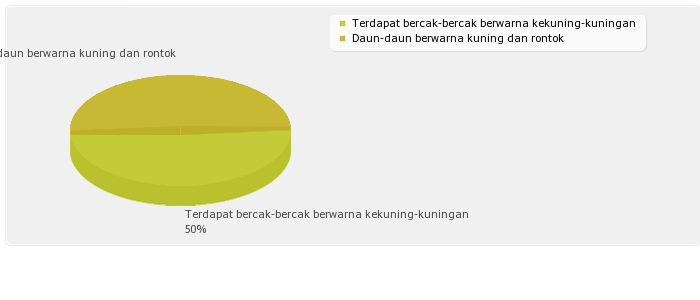
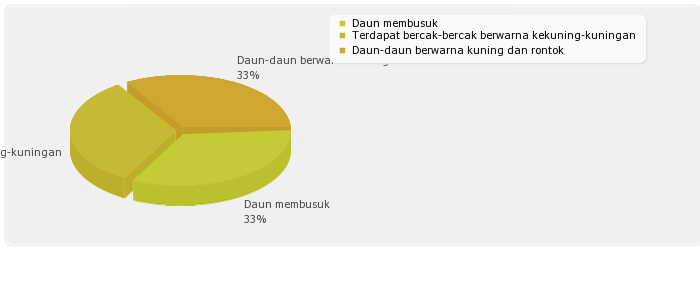
revisi

diff --git a/dompdf/lib/fonts/log.htm b/dompdf/lib/fonts/log.htm
@@ -1,1 +1,1 @@
-<span style='color: #000' title='Frames'>   254</span><span style='color: #009' title='Memory'>  13312.00 KB</span><span style='color: #900' title='Time'>   1123.73 ms</span><span  title='Quirksmode'>  <span style='color: #d00'> ON</span></span><br />
+<span style='color: #000' title='Frames'>   256</span><span style='color: #009' title='Memory'>  13312.00 KB</span><span style='color: #900' title='Time'>   1145.81 ms</span><span  title='Quirksmode'>  <span style='color: #d00'> ON</span></span><br />

diff --git a/administrator/LaporanPakar.php b/administrator/LaporanPakar.php
@@ -145,6 +145,8 @@ inner join solusi on relasigejala.id_solusi=solusi.id_solusi
 where analisahasil.id_log ='".$_GET['id_log']."' and analisahasil.id_pengguna='".$_GET['id_pengguna']."'
 order by analisahasil.id_analisa Desc limit 1";
 
+$_SESSION["get_id_log"] = $_GET['id_log'];
+
 $qry = mysql_query($sql, $koneksi) 
      or die ("Query Hasil salam".mysql_error());
 $data= mysql_fetch_array($qry);
@@ -165,40 +167,44 @@ $sql_gejalarelasi = "select distinct gejala.* FROM gejala, relasi WHERE gejala.i
     }
 
 //gejala yang sesuai dan ada
-  $sql_gejalaada = "select distinct gejala.* FROM gejala, relasi WHERE gejala.id_gejala= relasi.id_gejala AND relasi.id_gejala in (select id_gejala from analisahasil where id_log in ((select max(id_log) from log where id_log='".$_GET['id_log']."' and id_pengguna='".$_GET['id_pengguna']."')))";
+  $sql_gejalaada = "select distinct gejala.* FROM gejala, relasi WHERE gejala.id_gejala= relasi.id_gejala AND relasi.id_gejala in (select id_gejala from analisahasil where id_log in ((select max(id_log) from log where id_log='".$_GET['id_log']."' and id_pengguna='".$_GET['id_pengguna']."'))) and gejala.id_gejala IN (select id_gejala from tmp_gejala where id_log='".$_GET['id_log']."')";
     $qry_gejalaada = mysql_query($sql_gejalaada, $koneksi);
     $g=0;
     while ($hsl_gejalaada=mysql_fetch_array($qry_gejalaada)) {
     $g++;
     }
-
 $persentase=round($g/$h*100,2);
 ?>
 
+    <script type="text/javascript" src="canvasjs.min.js"></script>
 <div class="alert">
-    <h4>DATA PENGGUNA</h4>
-    <p></p>
-    <?php
-      $pg = mysql_fetch_array(mysql_query("select * from pengguna where id_pengguna='".$_GET['id_pengguna']."'"));
-    ?>
-        <div class="alert alert-success">
-          <p>Nama : <?php echo $pg['nama']; ?></p>
-          <p>Alamat : <?php echo $pg['alamat']; ?></p>
-          <p>Usia : <?php echo $pg['usia']; ?></p>
-          <p>Kelamin : <?php echo $pg['kelamin']; ?></p>
-        </div>
-
     <h4>HAMA PENYAKIT YANG TERDETEKSI YAITU:</h4>
     <p></p>
         <div class="alert alert-error"><b><? echo $data['JnsPnykt']; ?></b></div>
-
     <h4>GEJALA-GEJALA YANG MENYERANG SESUAI ANALISA:</h4>
     <p></p>
     <div class="alert alert-info">
         <ol>
     <?php 
         //select * from analisahasil a left join gejalan b on a.id_gejala=b.id_gejala where a.id_log='".$_GET['id_log']."'
-    $sql_gejala = "select distinct gejala.* FROM gejala, relasi WHERE gejala.id_gejala= relasi.id_gejala AND relasi.id_gejala in (select id_gejala from analisahasil where id_log in ((select max(id_log) from log where id_log='".$_GET['id_log']."' and id_pengguna='".$_GET['id_pengguna']."')))";
+    $sql_gejala = "select distinct gejala.* FROM gejala, relasi WHERE gejala.id_gejala= relasi.id_gejala AND relasi.id_gejala in (select id_gejala from analisahasil where id_log in ((select max(id_log) from log where id_log='".$_GET['id_log']."' and id_pengguna='".$_GET['id_pengguna']."'))) and gejala.id_gejala IN (select id_gejala from tmp_gejala where id_log='".$_GET['id_log']."')";
+    $qry_gejala = mysql_query($sql_gejala, $koneksi);
+    $i=0;
+    while ($hsl_gejala=mysql_fetch_array($qry_gejala)) {
+    $i++;
+      echo "<li> .$hsl_gejala[gejala]</li>";
+    } 
+    ?> 
+        </ol>     
+    </div>
+
+    <h4>GEJALA-GEJALA LAIN YANG SESUAI :</h4>
+    <p></p>
+    <div class="alert alert-info">
+        <ol>
+    <?php 
+        //select * from analisahasil a left join gejalan b on a.id_gejala=b.id_gejala where a.id_log='".$_GET['id_log']."'
+    $sql_gejala = "select * from relasi a left join gejala b on a.id_gejala=b.id_gejala where a.id_penyakit='".$id_pnykt."' and b.id_gejala NOT IN (select id_gejala from tmp_gejala where id_log='".$_GET['id_log']."')";
     $qry_gejala = mysql_query($sql_gejala, $koneksi);
     $i=0;
     while ($hsl_gejala=mysql_fetch_array($qry_gejala)) {
@@ -225,8 +231,7 @@ $persentase=round($g/$h*100,2);
     }
     echo $k." Gejala";
     ?>
-
-          <script type="text/javascript">
+            <script type="text/javascript">
       window.onload = function () {
         var chart = new CanvasJS.Chart("hasil",
         {
@@ -249,7 +254,7 @@ $persentase=round($g/$h*100,2);
           $qry_solusi1 = mysql_query($sql_solusi1, $koneksi);
           while ($hsl_solusi1=mysql_fetch_array($qry_solusi1)) {
               ?>
-              <?php echo '{  y: 10/3, legendText:"'.$hsl_solusi1['gejala'].'", indexLabel: "'.$hsl_solusi1['gejala'].'" },'; ?>
+              <?php echo '{  y: 100/3, legendText:"'.$hsl_solusi1['gejala'].'", indexLabel: "'.$hsl_solusi1['gejala'].'" },'; ?>
               <?php } ?>
         
            
@@ -263,7 +268,6 @@ $persentase=round($g/$h*100,2);
   </script>
 
     <div id="hasil" style="height: 300px; width: 100%;"></div>
-
     </div>
     
     <h4>SOLUSI PENCEGAHAN DAN PENGOBATAN SESUAI GEJALA YANG DIPILIH :  </h4>
@@ -334,13 +338,14 @@ $qry_solusi4 = mysql_query($sql_solusi3, $koneksi);
     <p></p>
     <div class="alert alert-info">
         <?php
-      $penyakit = mysql_query("SELECT * FROM `relasi` a left join hamapenyakit b on a.id_penyakit=b.Id_Pnykt where id_gejala in (SELECT id_gejala FROM `tmp_gejala` where id_log='".$_GET['id_log']."' and id_gejala not in(select id_gejala from analisahasil where id_log='".$_GET['id_log']."')) group by id_penyakit");
+      $penyakit = mysql_query("SELECT * FROM `relasi` a left join hamapenyakit b on a.id_penyakit=b.Id_Pnykt where id_gejala in (SELECT id_gejala FROM `tmp_gejala` where id_log='".$_GET['id_log']."' and id_gejala in(select id_gejala from analisahasil where id_log='".$_GET['id_log']."')) group by id_penyakit");
+      
       echo "<ol>";
       while($pn=mysql_fetch_array($penyakit))
       {
 
       //tampilkan gejala
-      $sql_gejalarelasi = "select distinct gejala.* FROM gejala, relasi WHERE gejala.id_gejala= relasi.id_gejala AND relasi.id_penyakit in (select id_pnykt from hamapenyakit where id_pnykt='".$pn['Id_Pnykt']."')";
+      $sql_gejalarelasi = "select * from relasi a where a.id_gejala IN (select id_gejala from tmp_gejala where id_log='".$_GET['id_log']."') and a.id_penyakit='".$pn['Id_Pnykt']."'";
           $qry_gejalarelasi = mysql_query($sql_gejalarelasi, $koneksi);
           $h=0;
           while ($hsl_gejalarelasi=mysql_fetch_array($qry_gejalarelasi)) {
@@ -348,7 +353,7 @@ $qry_solusi4 = mysql_query($sql_solusi3, $koneksi);
           }
 
       //gejala yang sesuai dan ada
-        $sql_gejalaada = "select distinct gejala.* FROM gejala, relasi WHERE gejala.id_gejala= relasi.id_gejala AND relasi.id_gejala in (select id_gejala from analisahasil where id_log in ((select max(id_log) from log where id_log='".$_GET['id_log']."' and id_pengguna='".$_GET['id_pengguna']."')))";
+        $sql_gejalaada = "select * from relasi where id_penyakit='".$pn['Id_Pnykt']."'";
           $qry_gejalaada = mysql_query($sql_gejalaada, $koneksi);
           $g=0;
           while ($hsl_gejalaada=mysql_fetch_array($qry_gejalaada)) {
@@ -396,8 +401,9 @@ $qry_solusi4 = mysql_query($sql_solusi3, $koneksi);
       }
       echo "</ol>";
     ?>
-    </div>
-    
+
+
+
       </span></td>
       <td bgcolor="">&nbsp;</td>
     </tr>
